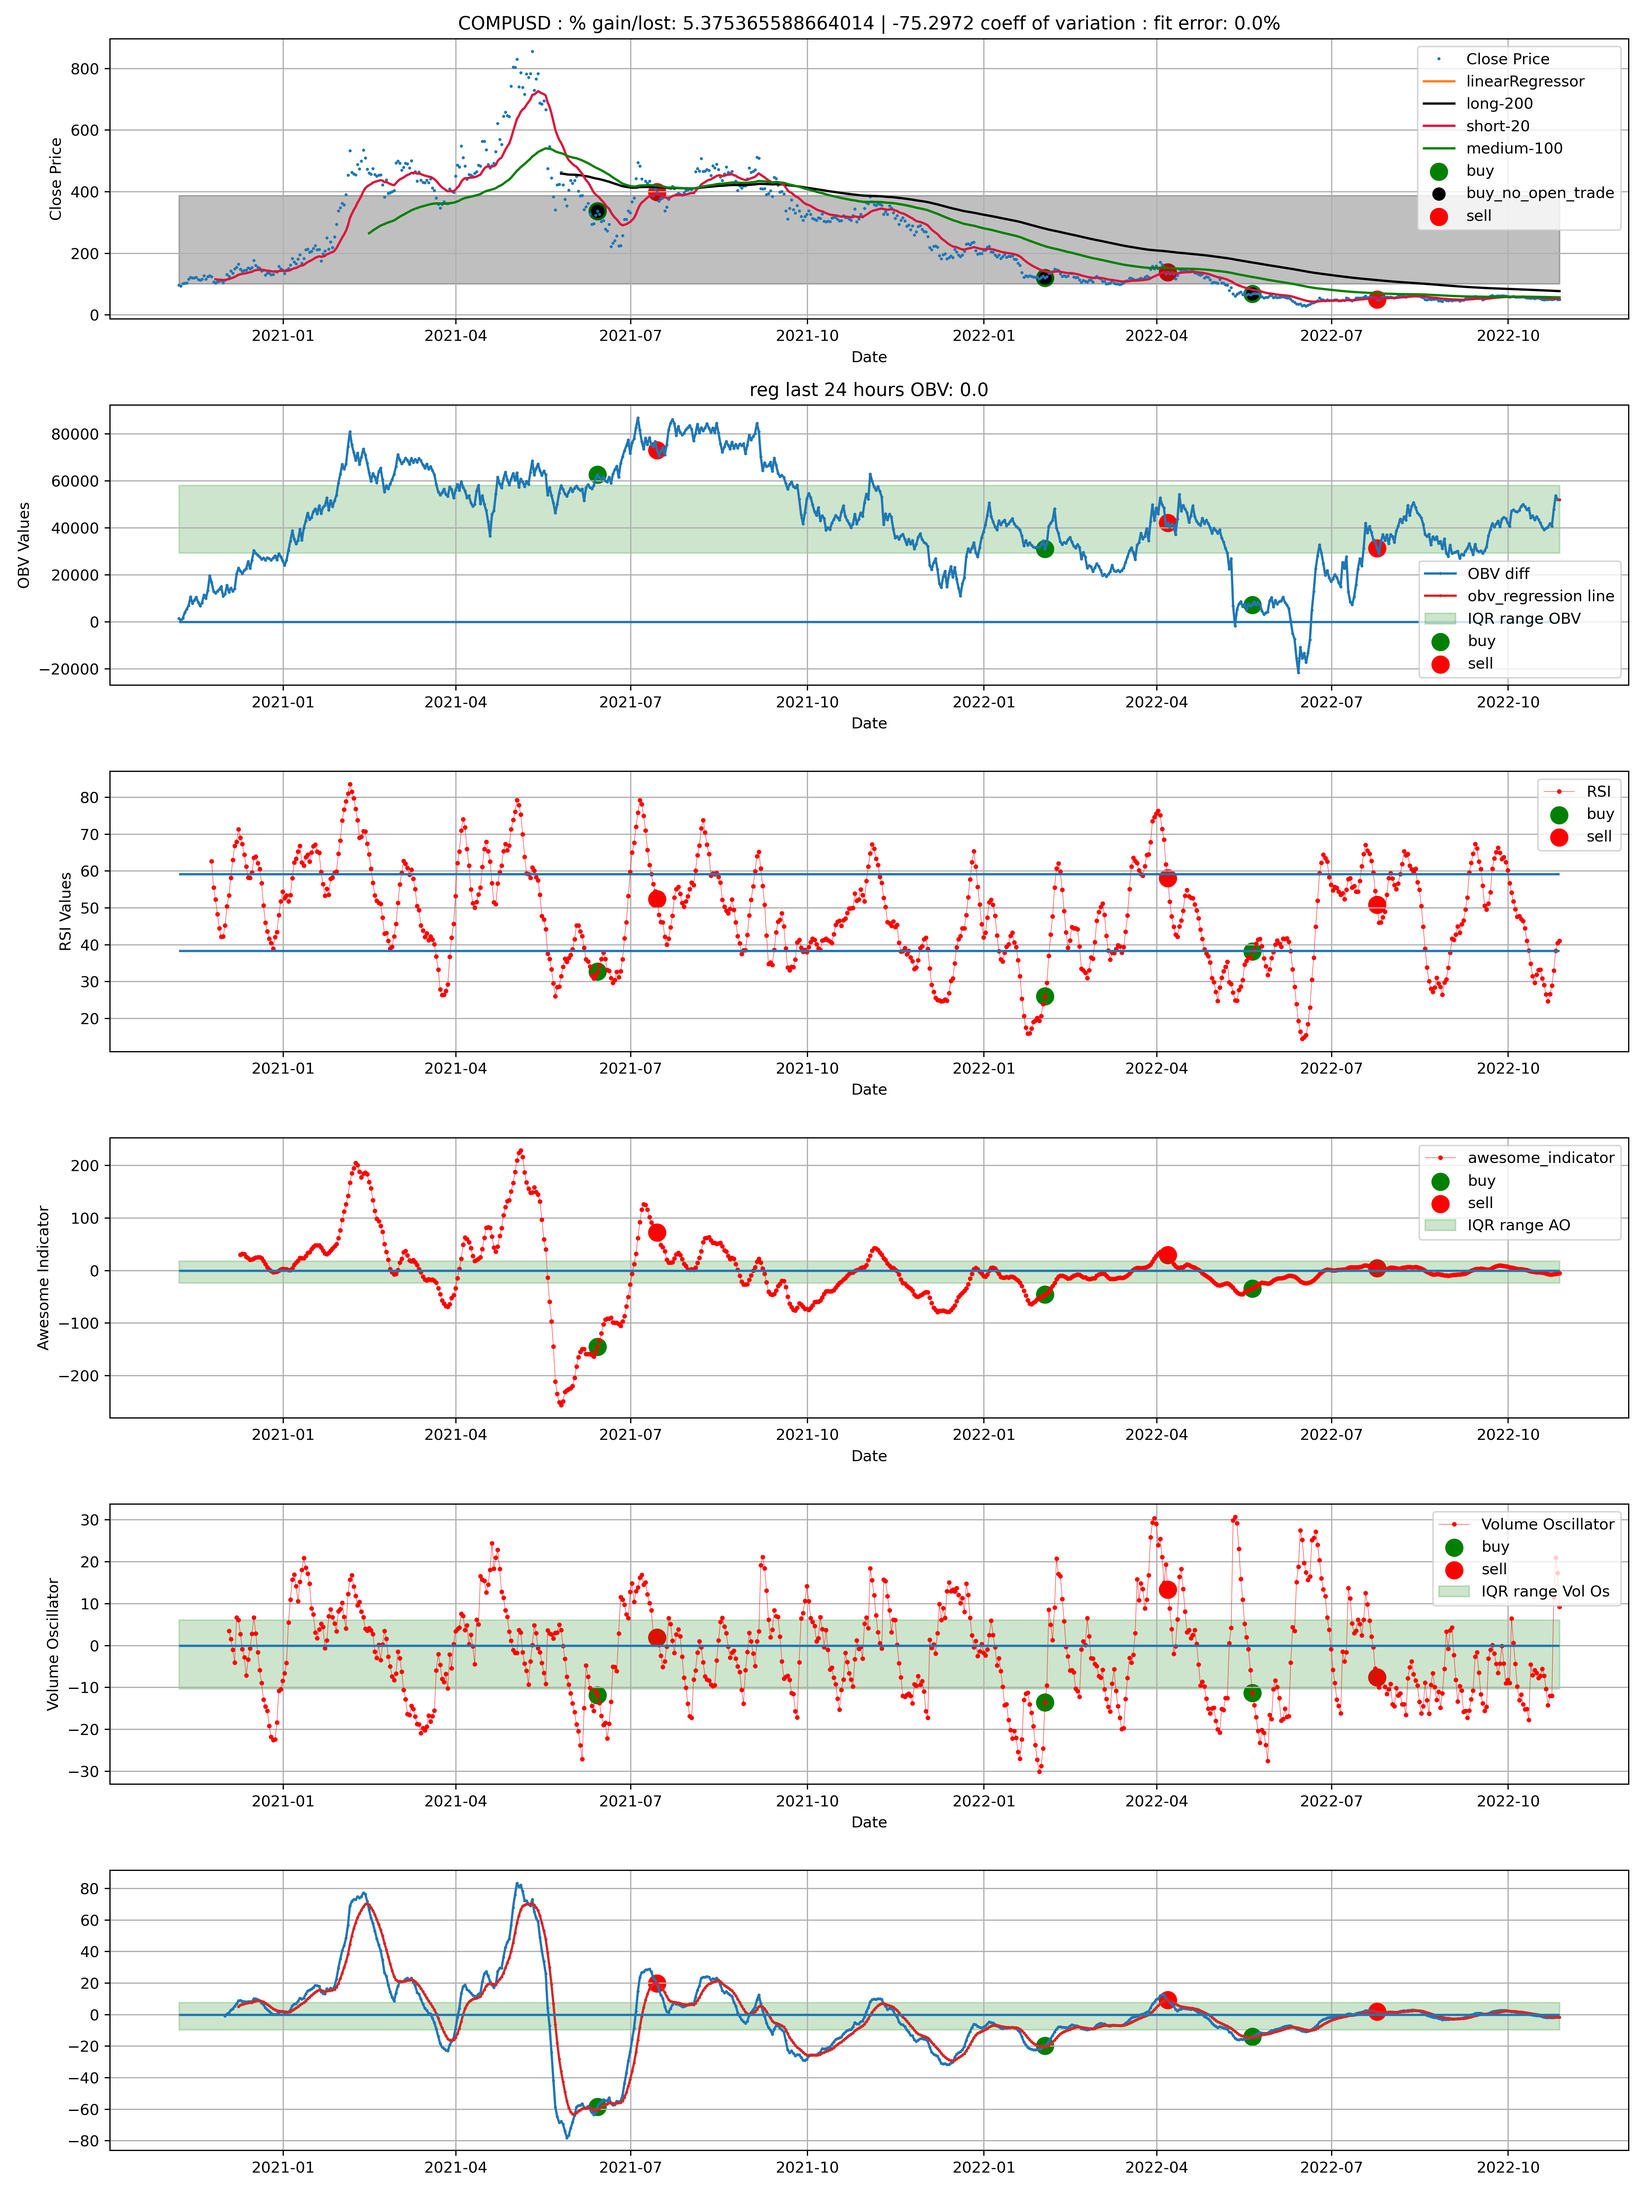
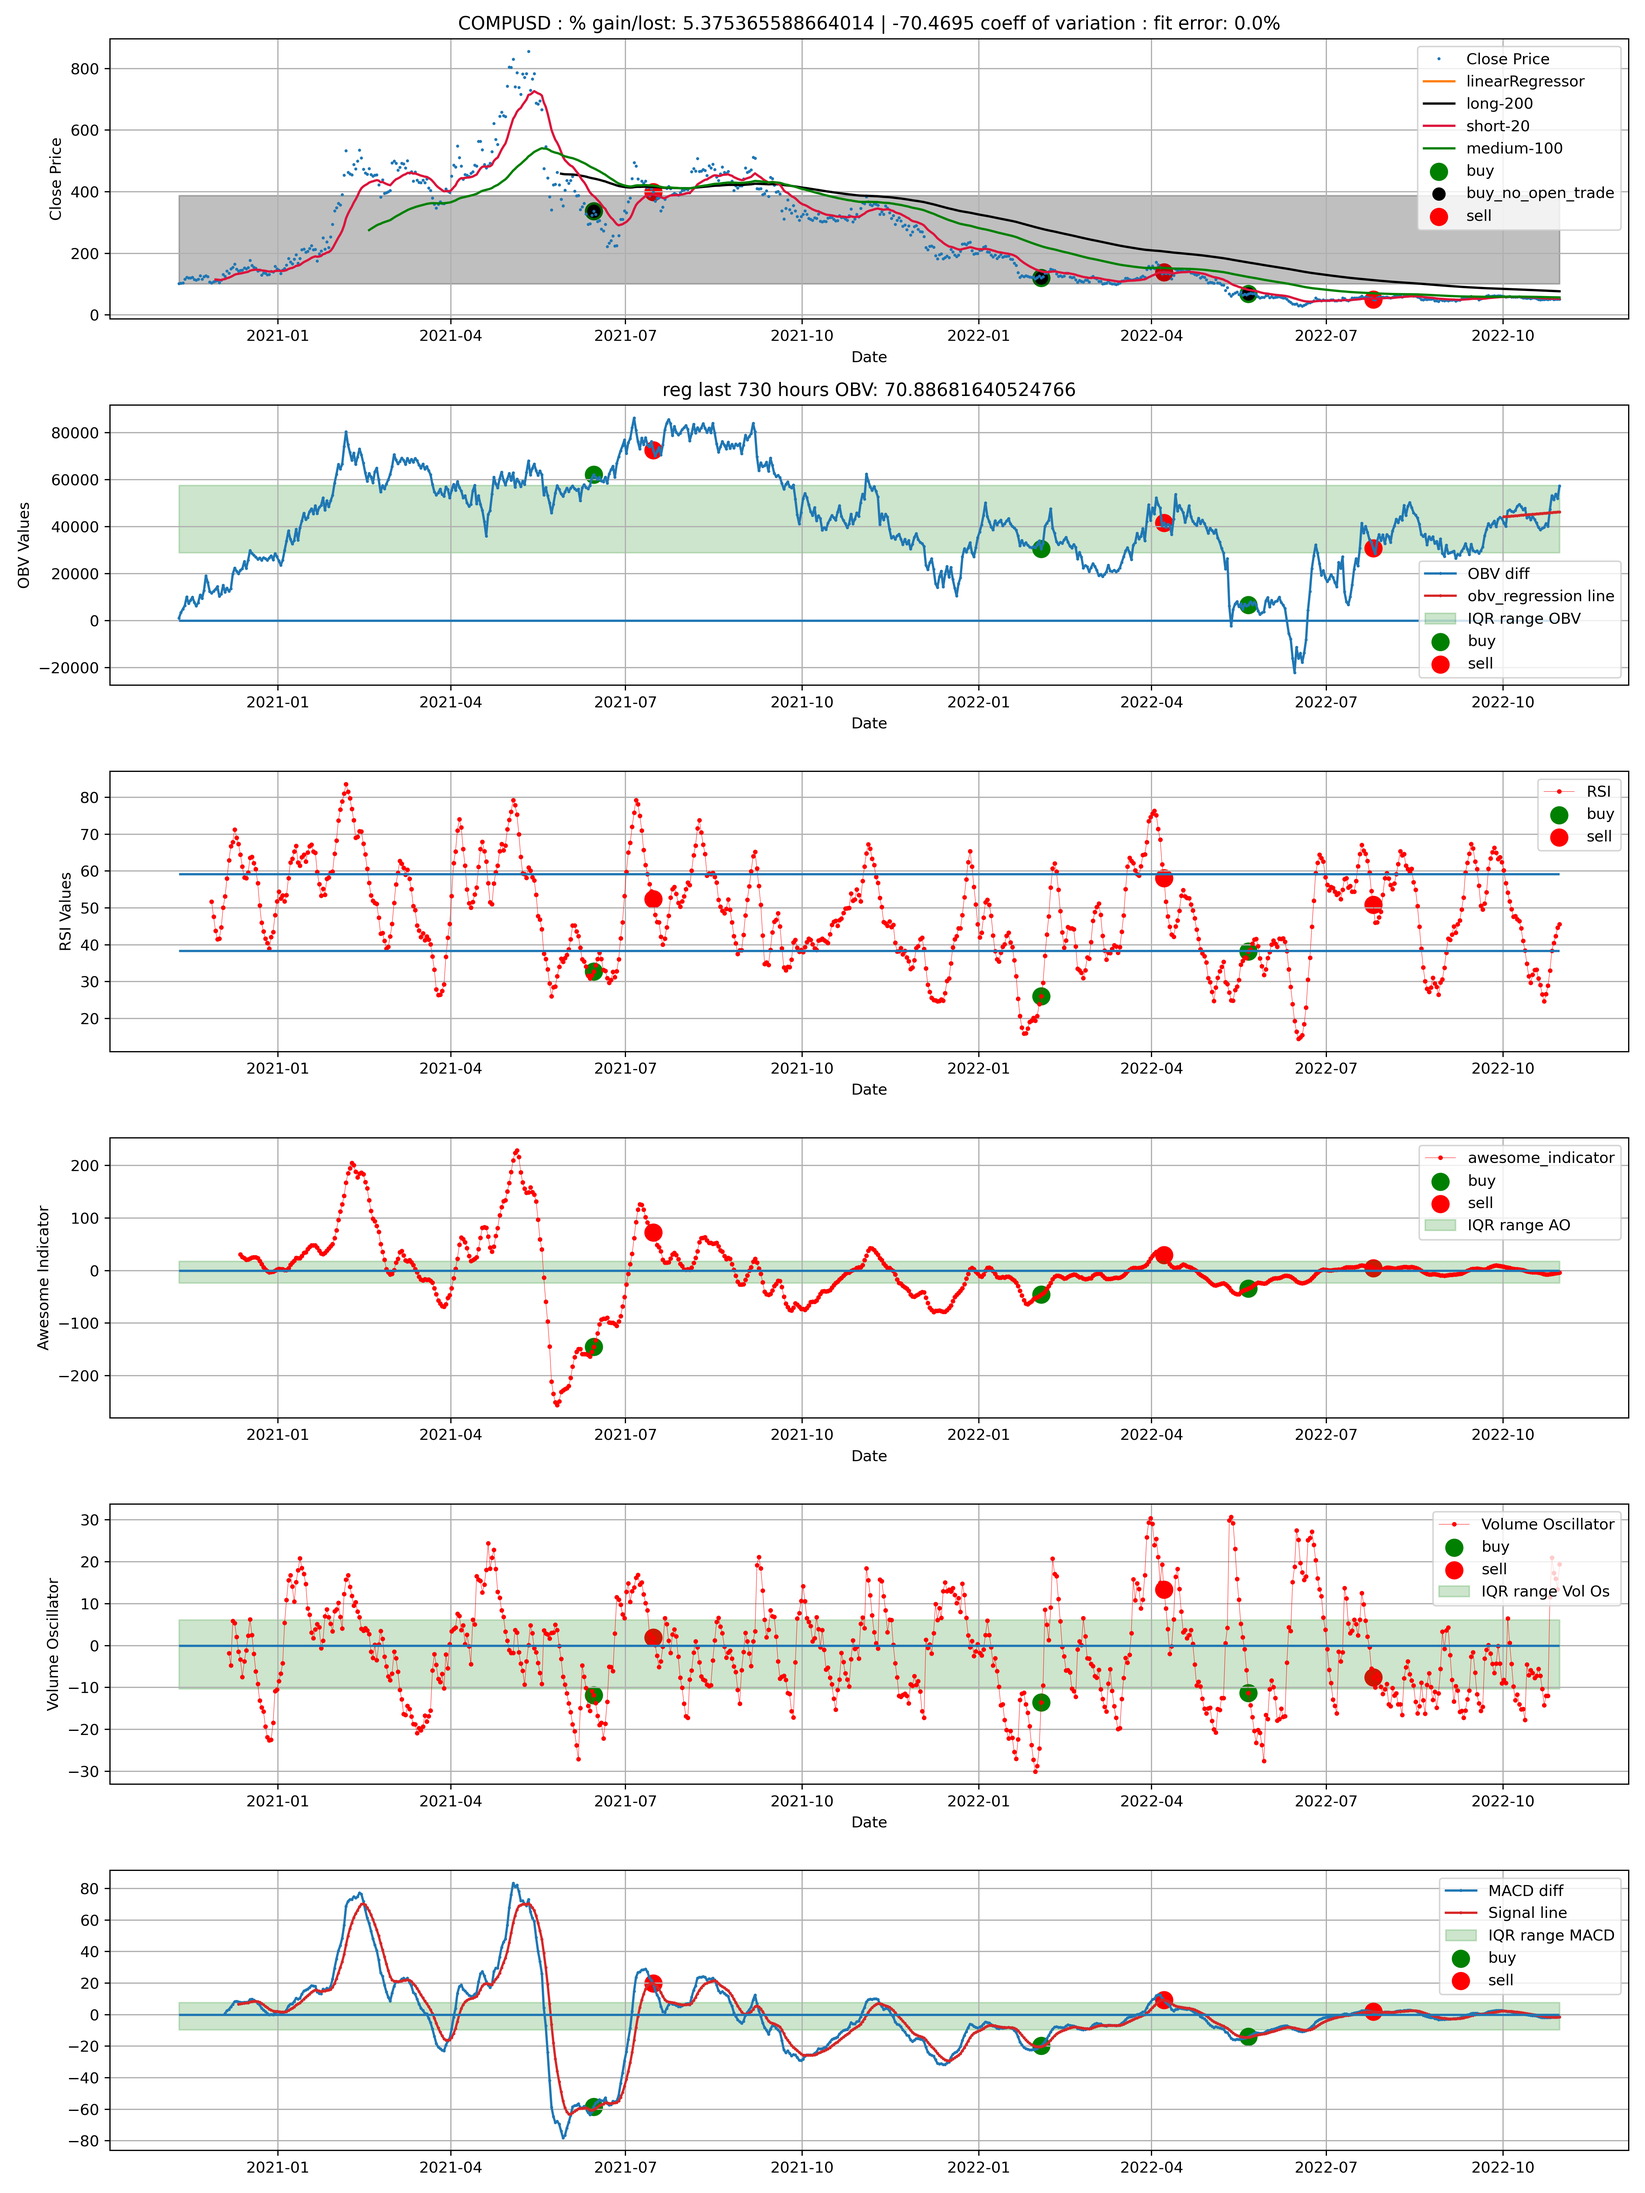
ADD: new data and fix some of the plotting functions and fix LinearRegression

diff --git a/technical_analysis.py b/technical_analysis.py
@@ -47,6 +47,7 @@ class technical():
         self.kraken = KrakenAPI(api)
         self.total_trades = 0
         self.cumlative_gained = float(0.0)
+        self.obv_price_reg_sample = 730
     def readin_cryptos(self):
         direct = getcwd()
         location = join(direct, 'crypto_trade_min_kraken.csv')
@@ -101,7 +102,7 @@ class technical():
         # self.ohlc_no_param = ohlc[0]
         self.data = ohlc[0] 
     def half_LR(self):
-        data_len = int((24*60)/SAMPLE_RATE) #get samples out of 24 hours
+        data_len = int((self.obv_price_reg_sample*60)/SAMPLE_RATE) #get samples out of 24 hours
          # = total_samples #last 30 days + the 30 day prediction
         a_list = list(arange(len(self.data)-data_len,len(self.data)))
         X1 = array(a_list)
@@ -151,8 +152,7 @@ class technical():
             self.data['OBV'].iloc[i] = OBV_iter
     
         #linear regression
-        self.obv_reg_sample = 730
-        data_len = int((self.obv_reg_sample*60)/SAMPLE_RATE) #inputs should be 24 hours or 730 hours (1 month)
+        data_len = int((self.obv_price_reg_sample*60)/SAMPLE_RATE) #inputs should be 24 hours or 730 hours (1 month)
         a_list = list(arange(len(self.data)-data_len,len(self.data)))
         X1 = array(a_list)
         X = X1.reshape(-1, 1)
@@ -188,7 +188,8 @@ class technical():
         self.data['macd_diff'] = self.data['sma_2'] - self.data['sma_1']
         self.data['signal_line'] = self.data['macd_diff'].ewm(span=9,
                                                               min_periods=9-1).mean()
-        self.q75_macd, self.q25_macd = percentile(self.data['macd_diff'].dropna().values, 
+        half = int(len(self.data)/2)
+        self.q75_macd, self.q25_macd = percentile(self.data['macd_diff'].iloc[-half:].dropna().values, 
                                     [75 ,25])
     def RSI(self):
         self.data['change'] = self.data.close.diff()
@@ -272,7 +273,7 @@ class technical():
         buy_df = self.data[~self.data['buy'].isnull()]
         sell_df = self.data[~self.data['sell'].isnull()]
         #plot close price
-        str_name = f'{name} : % gain/lost: {self.gain_lost} | {round(self.coef_variation,4)} coeff of variation : fit error: {self.MAPE}%'
+        str_name = f'{name} : % gain/lost: {self.gain_lost} | {round(self.coef_variation,4)} coeff of variation : LinReg coef: {self.reg_coef} | fit error: {self.MAPE}%'
         ax[0].set_title(str_name)
         ax[0].plot(self.data.index,self.data['close'],'tab:blue', marker="o",
                markersize=1, linestyle='', label = 'Close Price')
@@ -305,7 +306,7 @@ class technical():
         ax[1].hlines(y = 0, xmin=self.data.index[0], xmax=self.data.index[-1])
         ax[1].legend()
         ax[1].grid(True)
-        title_obs = f'reg last {self.obv_reg_sample} hours OBV: {self.obv_reg.coef_[0]}'
+        title_obs = f'reg last {self.obv_price_reg_sample} hours OBV: {self.obv_reg.coef_[0]}'
         ax[1].set_title(title_obs)
         # ax[1].set_xlim(x_low_lim)
         ax[1].set_xlabel('Date')
